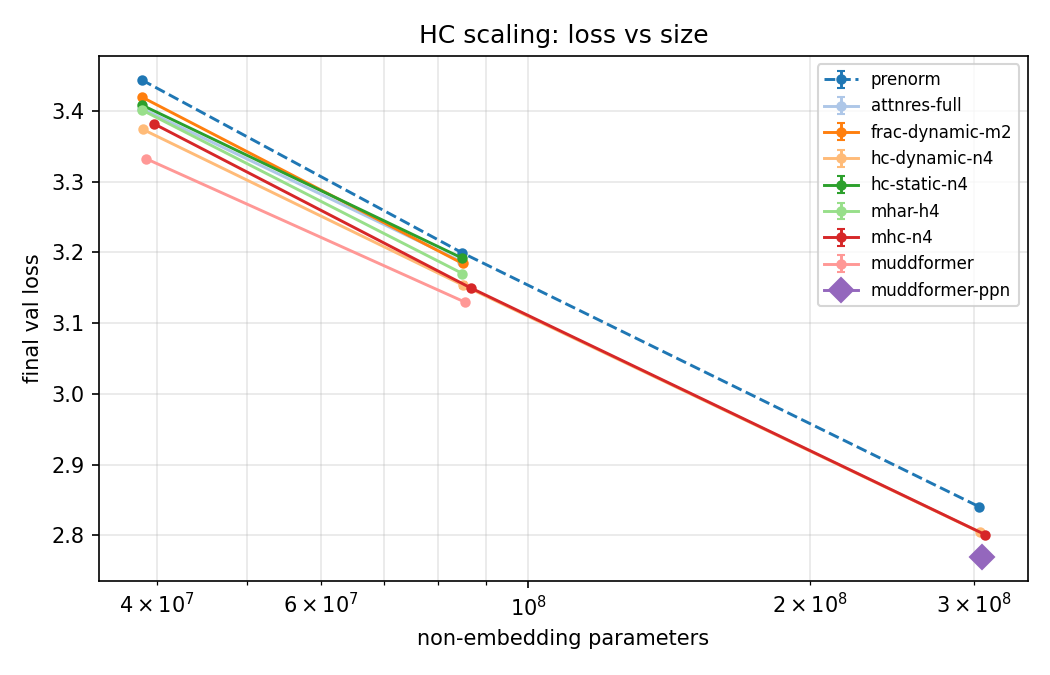
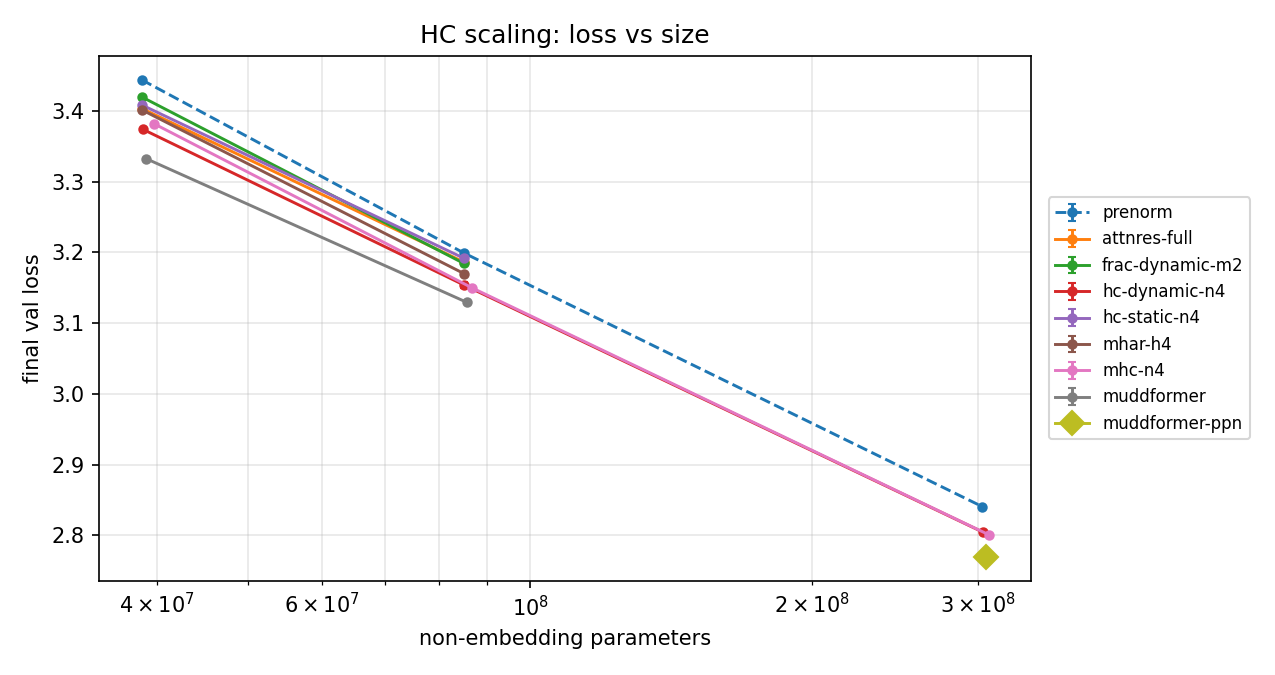
scaling plot: legend outside axes

diff --git a/scripts/scaling.py b/scripts/scaling.py
@@ -82,9 +82,9 @@ def main():
         + table + "\n")
     print(table)
 
-    cmap = plt.get_cmap("tab20")
+    cmap = plt.get_cmap("tab10")
     for kind in ("loss", "delta"):
-        fig, ax = plt.subplots(figsize=(7, 4.5))
+        fig, ax = plt.subplots(figsize=(8.5, 4.5))
         for i, n in enumerate(names):
             pts = sorted((r["params"], r["val_loss"] if kind == "loss" else r["delta"], r["std"])
                          for r in rows if r["variant"] == n
@@ -95,7 +95,7 @@ def main():
             single = len(xs) == 1  # a lone point needs a bigger marker to be visible
             ax.errorbar(xs, ys, yerr=es, marker="D" if single else "o", ms=8 if single else 4,
                         lw=1.4, capsize=2,
-                        ls="--" if n == args.baseline else "-", color=cmap(i % 20), label=n)
+                        ls="--" if n == args.baseline else "-", color=cmap(i % 10), label=n)
         ax.set_xscale("log")
         ax.set_xlabel("non-embedding parameters")
         ax.set_ylabel("final val loss" if kind == "loss" else f"Δ val loss vs {args.baseline}")
@@ -103,7 +103,7 @@ def main():
             ax.axhline(0, color="gray", lw=0.8)
         ax.set_title("HC scaling: " + ("loss vs size" if kind == "loss" else "gain vs size"))
         ax.grid(alpha=0.3, which="both")
-        ax.legend(fontsize=8)
+        ax.legend(fontsize=8, loc="center left", bbox_to_anchor=(1.01, 0.5))  # keep data points uncovered
         fig.tight_layout()
         fig.savefig(os.path.join(args.out, f"{kind}_vs_params.png"), dpi=150)
         plt.close(fig)
